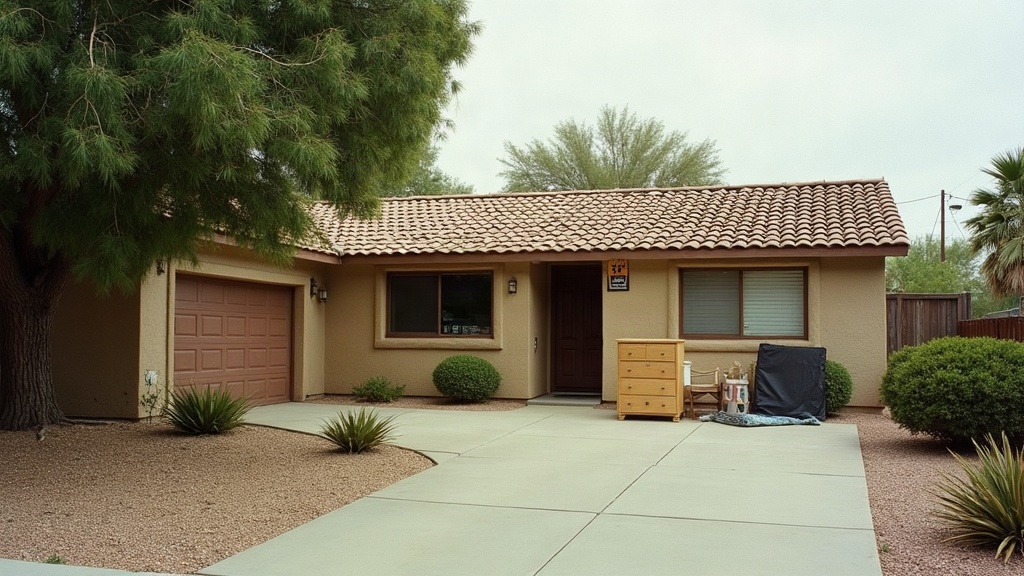
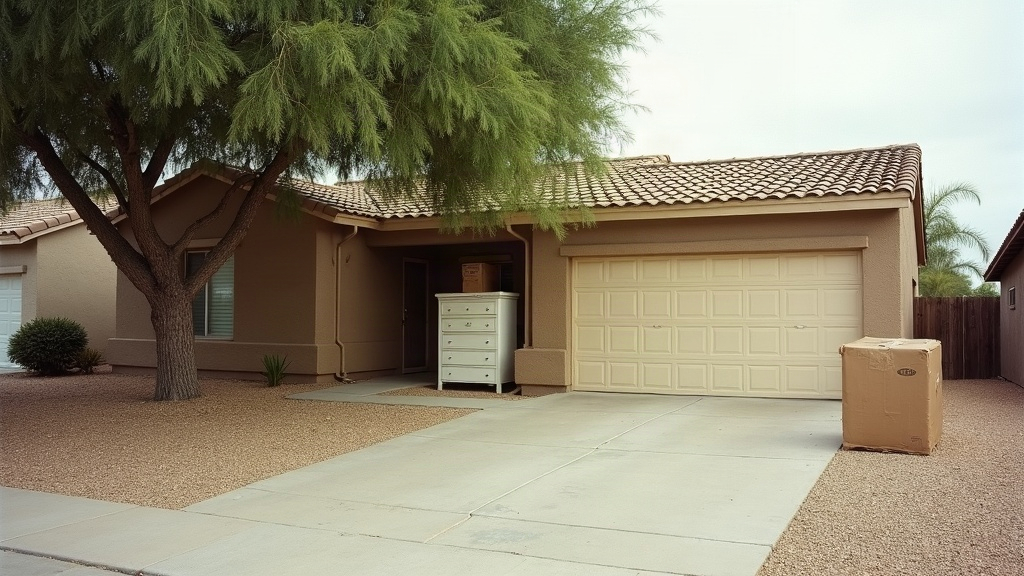
Refine city-page imagery: fifth hero concept, clean mature frame, mobile split
Three pre-deploy refinements to the approved city rollout. No content, section
order, URL or link changes — verified: the previous commit and this one build to
the identical 3,639 internal hrefs.

── A fifth hero concept ──

Three cities shared the xeriscape frame. A desert-edge concept — stucco home
where the development meets open scrub, low hills behind, staged items on the
driveway — now goes to Gold Canyon, which actually sits on that edge. No concept
appears on more than two pages:

  street      Gilbert, Queen Creek
  driveway    Chandler, Apache Junction
  xeriscape   Tempe, San Tan Valley
  desertEdge  Gold Canyon
  mature      Scottsdale, Ahwatukee

The wide frame took two attempts: the first put the staged items on the LEFT,
the one region this hero system reserves for the headline, and never showed the
desert. Stated positionally the second time.

── The mature sign artifact ──

The wide frame had a small plaque beside the front door. Regenerating with hard
negations against signs produced THREE sign-like objects — naming a thing is a
reliable way to summon it — so the fix is compositional: the third framing puts
the entry out of shot entirely, garage door and yard carrying the frame, and
there is no doorway left for a plaque to sit beside. The tall frame was already
clean and is untouched. Scottsdale and Ahwatukee keep the concept.

── Mobile hero: split, not scrim ──

Measured white-on-composite contrast behind the intro at 390px: 2.7:1 on the
[…]

diff --git a/src/data/city-images.ts b/src/data/city-images.ts
@@ -3,7 +3,7 @@
  *
  * ─────────────────── A regional library, not a photo per city ───────────────────
  *
- * There are four concepts, not nine. That is a truthfulness constraint before it
+ * There are five concepts, not nine. That is a truthfulness constraint before it
  * is an economy: generated photography cannot depict a named town, so producing
  * nine "city" frames would only produce nine indistinguishable Arizona suburbs
  * while implying each one is somewhere specific. Four distinct residential
@@ -28,6 +28,8 @@ import xeriscapeWide from '../assets/photos/cities/city-bg-xeriscape-wide.jpg';
 import xeriscapeTall from '../assets/photos/cities/city-bg-xeriscape-tall.jpg';
 import matureWide from '../assets/photos/cities/city-bg-mature-wide.jpg';
 import matureTall from '../assets/photos/cities/city-bg-mature-tall.jpg';
+import desertEdgeWide from '../assets/photos/cities/city-bg-desertedge-wide.jpg';
+import desertEdgeTall from '../assets/photos/cities/city-bg-desertedge-tall.jpg';
 
 export interface CityHero {
   wide: ImageMetadata;
@@ -44,7 +46,7 @@ export interface CityHero {
   focus: string;
 }
 
-/** The library. Four residential situations across the East Valley. */
+/** The library. Five residential situations across the East Valley. */
 export const cityHeroes = {
   street: {
     wide: streetWide,
@@ -71,6 +73,14 @@ export const cityHeroes = {
     alt: 'A chest of drawers, a wrapped mattress and boxes set out on the driveway of an older East Valley home',
     focus: 'center 58%',
   },
+  desertEdge: {
+    wide: desertEdgeWide,
+    tall: desertEdgeTall,
+    alt: 'An armchair, a side table and boxes set out for collection outside a home on the desert edge of an East Valley neighbourhood',
+    /* Items sit low-left in this frame; the crop keeps them under the copy
+       rather than behind the headline. */
+    focus: 'center 62%',
+  },
 } satisfies Record<string, CityHero>;
 
 export type CityHeroKey = keyof typeof cityHeroes;
@@ -90,7 +100,10 @@ const assignment: Record<string, CityHeroKey> = {
   'apache-junction-az': 'driveway',
   'tempe-az': 'xeriscape',
   'san-tan-valley-az': 'xeriscape',
-  'gold-canyon-az': 'xeriscape',
+  /* Gold Canyon sits where the development actually meets open desert, so it
+     takes the desert-edge frame. It also breaks up the one concept that was
+     carrying three cities: nothing is on more than two now. */
+  'gold-canyon-az': 'desertEdge',
   'scottsdale-az': 'mature',
   'ahwatukee-az': 'mature',
 };
